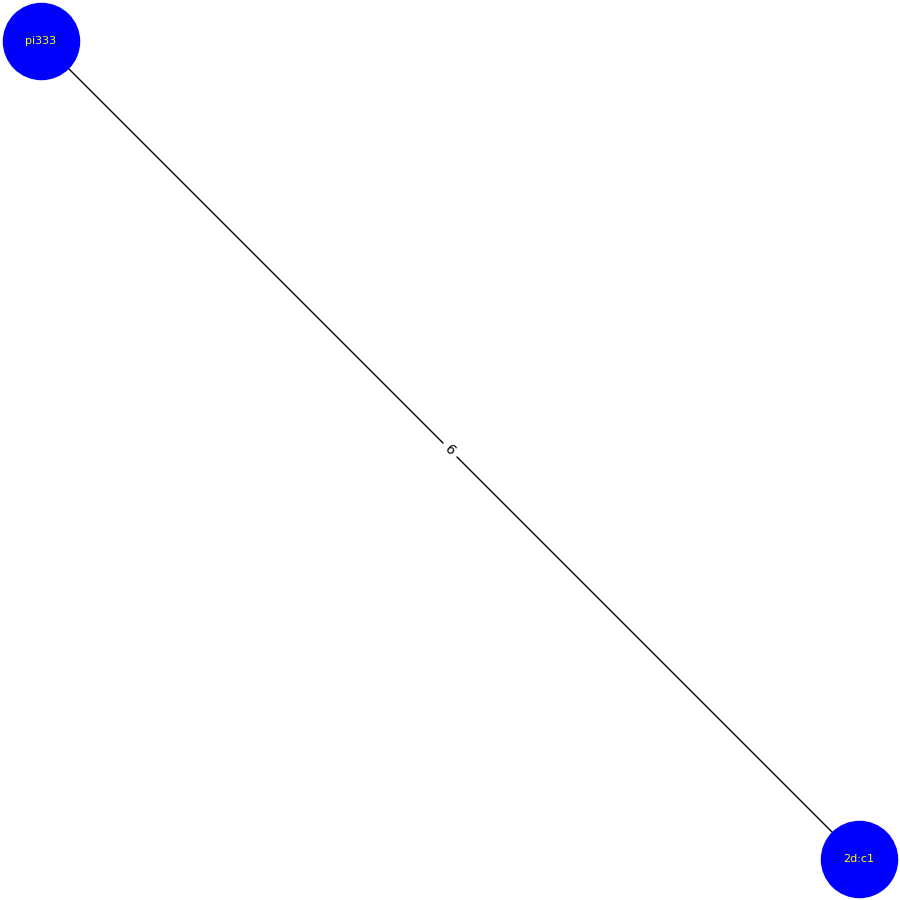
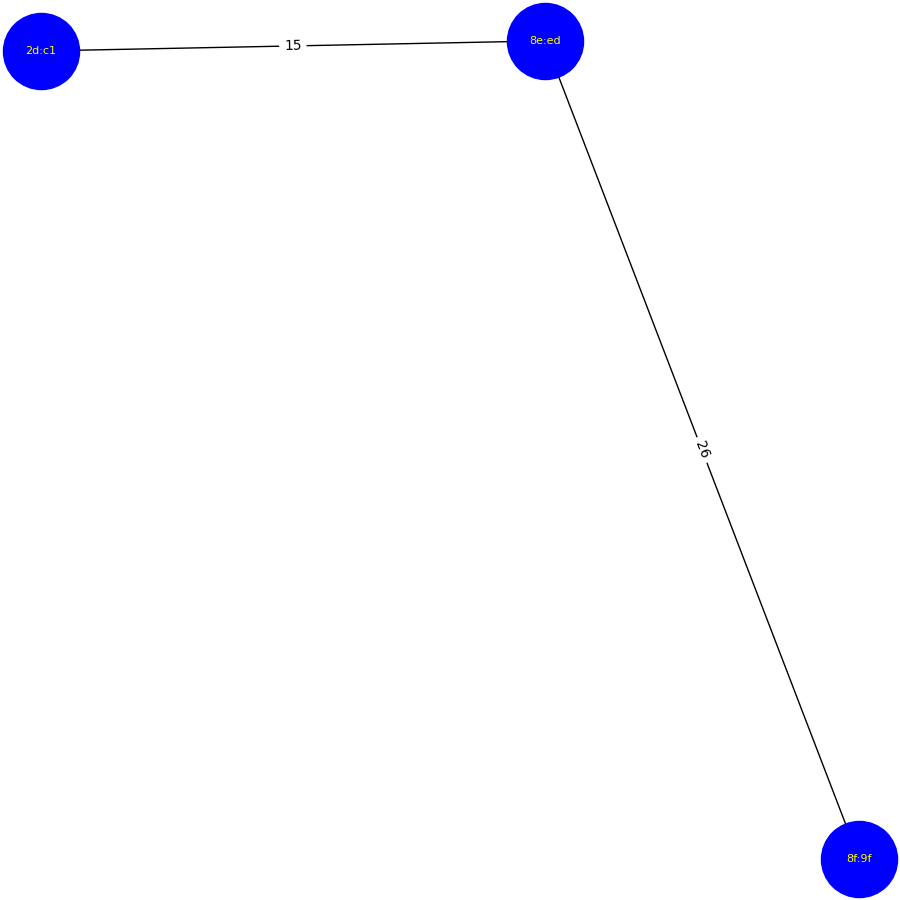
gup

diff --git a/mesh/gateway/src/opt/konttiraspi/batnaapuri-server/batnaapuri-server.py b/mesh/gateway/src/opt/konttiraspi/batnaapuri-server/batnaapuri-server.py
@@ -10,51 +10,40 @@ config=ConfigObj('/boot/asetukset.txt')
 
 meshnaapuridata={} #tässä on clientien ilmoittamien naapurihavaintojen kokonaisuus
 viimmeshnaapuridata={} #tässä on clientien ilmoittamien naapurihavaintojen kokonaisuus viimeinnen tunnettu tila vertailua varten
+MNT={} #Mac --> Nimi
+havaintoaika={} #MAC aikaleima Laitenähty viimeksi
 
 def luoVisuaali():
     G = nx.Graph()
     for isan in meshnaapuridata: #käydään isäntien naapurit läpi
-        print("isanta:",isan)
         for naap in meshnaapuridata[isan]["naapurit"]:
             naapuri=naap["laite"]
             teho=naap["teho"]
-            print(naapuri, teho)
             G.add_edge(isan[-5:], naapuri[-5:], valimatka=int(40-float(teho)))
     pos = nx.spring_layout(G, seed=0)
-    plt.figure(figsize =(9, 9))
+    plt.figure(figsize=(9, 9))
     nx.draw(G, pos,with_labels = True, node_color ='blue', node_size=3000, font_size=8, font_color="yellow")
     edge_labels = nx.get_edge_attributes(G,'valimatka')
     nx.draw_networkx_edge_labels(G, pos, edge_labels = edge_labels)
-    ##print(nx.shortest_path(G, ’A’, ’K’))
-    ##length = nx.shortest_path_length(G, source=’A’, target=’K’, weight=’valimatka’)
-    ##print("VM",length)
     plt.savefig('static/kartta.png')
+    #plt.clf()
+    #plt.cla()
+    plt.close()
     f.paivitaKuva()
 
 def vertaaNaapuriMuutoksia(): #onko naapuridatassa tapahtunut muutoksia?
     global viimmeshnaapuridata
     muuttunut=False
-    #print("----------------------------")
-    #print(meshnaapuridata)
     for isanta in meshnaapuridata:
         for naapurit in meshnaapuridata[isanta]["naapurit"]:
             if isanta in viimmeshnaapuridata:
                 vanhat=viimmeshnaapuridata[isanta]["naapurit"]
-
-                #print("VABNHAT",vanhat,type(vanhat),len(vanhat))
-                #print("UUUUUUU",naapurit,type(naapurit),len(naapurit))
                 if meshnaapuridata[isanta]["naapurit"] != vanhat:
-                    #print("MUUUUUUUUUUUUUUT")
                     muuttunut=True
             else:
-                print("ei ole")
                 muuttunut=True
-    #print("AA",meshnaapuridata)
-    #print("BB,",viimmeshnaapuridata)
     if muuttunut:
-        print("MUUTTUNUT")
         viimmeshnaapuridata=meshnaapuridata.copy()
-        print(meshnaapuridata)
         luoVisuaali()
 
 class FlaskPalvelu:
@@ -80,12 +69,10 @@ class FlaskPalvelu:
         @self.socketio.on('connect', namespace='/selain')
         def selain_connect():
             self.clientsSelain.append(request.sid)
-            print("selain")
 
         @self.socketio.on('connect', namespace='/meshraspi')
         def meshraspi_connect():
             self.clientsMeshraspi.append(request.sid)
-            print("CON")
 
         @self.socketio.on('disconnect', namespace='/meshraspi')
         def test_disconnect():
@@ -94,9 +81,11 @@ class FlaskPalvelu:
         @self.socketio.on('naapuri_message', namespace='/meshraspi') #client lähettää tietoa naapureistaan
         def __receiv_message(data):
             jdata=json.loads(data)
-            isanta=jdata["laite"]
+            isantaNimi=jdata["laite"]
+            isantaMAC=jdata["mac"]
+            MNT[isantaMAC]=isantaNimi #päivitetään nimet
+            havaintoaika[isantaMAC]=time.time()
             naap=[]
-            print("VVV isanta:",isanta)
             for j in jdata["data"]:
                 nmac=j["mac"]
                 nteho=j["teho"]
@@ -104,7 +93,7 @@ class FlaskPalvelu:
                 kohde={"laite": nmac, "teho": nteho, "viive": nviive}
                 naap.append(kohde)
             aika=time.time()
-            meshnaapuridata[isanta]={"naapurit": naap, "havaintoaika": aika}
+            meshnaapuridata[isantaMAC]={"naapurit": naap, "havaintoaika": aika}
             vertaaNaapuriMuutoksia()
 
         @self.socketio.on('selainmsg', namespace='/selain') #selaimelta tulevia komentoja
@@ -120,17 +109,27 @@ class FlaskPalvelu:
         self.socketio.emit('naapuridata', {'data': number}, namespace='/selain') #kaikille namespacessa
 
     def paivitaKuva(self):
-        print("päivitä selaimen kuva")
+        #print("päivitä selaimen kuva")
         self.socketio.emit('paivitakuva', {'data': 0}, namespace='/selain') #kaikille namespacessa
 
     def palv(self):
         self.socketio.run(self.app, host='0.0.0.0', port=int(config.get("batnaapuri_portti")))
+
+def tarkistaKadonneet(): # käydään läpi laitteiden viimeiset havaintoajat
+    for laite in list(MNT):
+        nahtyViimeksi=time.time()-havaintoaika[laite]
+        if nahtyViimeksi >=10:
+            print("kadonnut", laite)
+            del meshnaapuridata[laite]
+            del MNT[laite]
+        print("MNT: ",laite, havaintoaika[laite])
 
 if __name__ == '__main__':
     f=FlaskPalvelu()
     num=0
     while True:
         num+=1
-        #print(".",meshnaapuridata)
-        f.lahetaSelain("piip"+str(num))
+        if num % 10 == 0:
+            tarkistaKadonneet()
+        #f.lahetaSelain("piip"+str(num))
         time.sleep(1)

diff --git a/mesh/client/src/opt/konttiraspi/batnaapuri-client/batnaapuri-client.py b/mesh/client/src/opt/konttiraspi/batnaapuri-client/batnaapuri-client.py
@@ -2,52 +2,46 @@
 '''Tämä on asiakas-esimerkki joka ottaa yhteyttä flaskin socket-palvelimelle'''
 import subprocess, json, time, socketio, threading # sudo pip3 install python-socketio
 from configobj import ConfigObj
-
 config=ConfigObj('/boot/asetukset.txt')
 
 def kyseleNaapurit(): #kyselee batmanin näkemät naapurilaitteet # [('00:c0:ca:98:8f:9f', ' 0.500', ' 7.8'), ('00:c0:ca:98:8e:ed', ' 0.190', '35.6')]
-    #print("OMA IP: "+omaIP, omaMAC)
+    tamaLaiteMAC = subprocess.getoutput('sudo batctl n|grep -o "MAC:.*"|cut -d "/" -f2|cut -d " " -f1')
     naapuritraaka = subprocess.getoutput('sudo batctl n -H').split("\n")
-    print(naapuritraaka)
-    tmpnaapurit=[]
-    ##
-    #jrivi='{"laite": "'+config.get("mesh_name")+'", "data":  ['
-    #tmpnaapurit = [('00:c0:ca:98:8f:9f', ' 0.500', ' 7.8'), ('00:c0:ca:98:8e:ed', ' 0.190', '35.6')] #DEMO
-    #for t in tmpnaapurit:
-    #    nmac=t[0]
-    #    nviive=t[1]
-    #    nteho=t[2]
-    #    jrivi+='{"mac": "'+nmac+'", "viive": "'+nviive+'", "teho": "'+nteho+'"},'
-    #jrivi=jrivi[:-1]+']}'
-    #print("JJJJJJJJ", jrivi)
-    ##
-    #return jrivi
-    jrivi='{"laite": "'+config.get("mesh_name")+'", "data":  ['
+    jrivi='{"laite": "'+config.get("mesh_name")+'", "mac": "'+tamaLaiteMAC+'", "data":  ['
     for n in naapuritraaka:
         nmac = n[0:17]
         nviive = n[20:26]
         nteho = n[36:40]
-        #print(nmac,naika,nteho)
         jrivi+='{"mac": "'+nmac+'", "viive": "'+nviive+'", "teho": "'+nteho+'"},'
     jrivi=jrivi[:-1]+']}'
-    print("JJJJJJJJ", jrivi)
-    #tmpnaapurit.append((nmac,naika,nteho))
     return jrivi
-    #return tmpnaapurit # [('00:c0:ca:98:8f:9f', ' 0.500', ' 7.8'), ('00:c0:ca:98:8e:ed', ' 0.190', '35.6')]
 
 class WsAsiakas:
     def __init__(self):
+        self.socketOK=False
         self.t=threading.Thread(target=self.wsYhteys)
         self.t.start()
     def wsYhteys(self):
-        self.sio=socketio.Client()
-        self.sio.connect(config.get("batnaapuri_server"),namespaces=['/meshraspi'])
+        while not self.socketOK:
+            print("yhdistetään batnaapurit-serverille")
+            try:
+                self.sio=socketio.Client()
+                self.sio.connect(config.get("batnaapuri_server"),namespaces=['/meshraspi'])
+                self.socketOK=True
+            except:
+                print("ERR socketio")
+                self.socketOK=False
+                time.sleep(5)
+        @self.sio.on('connect_error')
+        def connect_error(message):
+            print('Connection was rejected due to ' + message)
+
         @self.sio.on('newnumber', namespace='/meshraspi')
         def my_custom_event(data):
             print("---", data)
+
     def laheta(self, sanoma):
         jsanoma=json.loads(sanoma)
-        print(jsanoma)
         self.sio.emit('naapuri_message', sanoma, namespace='/meshraspi')
 
 if __name__ == "__main__":
@@ -55,13 +49,7 @@ if __name__ == "__main__":
     k=0
     while True:
         k+=1
-        print(k)
-        if k%10 == 0 or k== 2:
+        if k%10 == 0 or k== 2: #muuta tämä hakemaan configista. 60 sek vois olla ok
             naap=kyseleNaapurit()
-            #print(naap)
             a.laheta(naap)
-        #if k%13 == 0:
-        #    print("muutos")
-        #    a.laheta('{"laite": "'+config.get("mesh_name")+'", "data": [{"mac": "00:c0:ca:98:8f:9f", "viive": " 1.500", "teho": " 7.8"}, {"mac": "00:c0:ca:98:8e:ed", "viive": " 0.190", "teho": "35.6"}, {"mac": "00:c0:ca:98:8e:31", "viive": " 0.190", "teho": "22.6"}]}')
-        #a.laheta('{"data": "piip"}')
         time.sleep(1)
